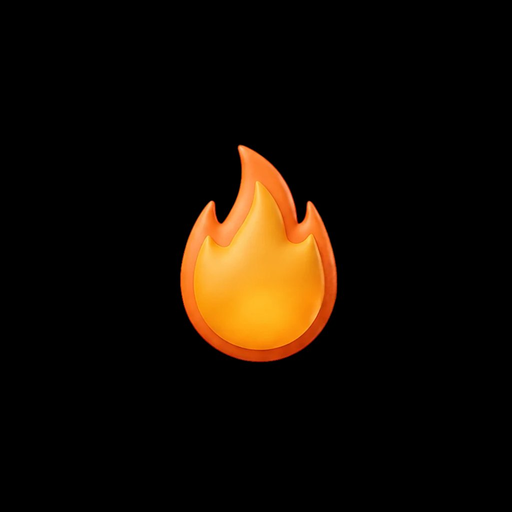
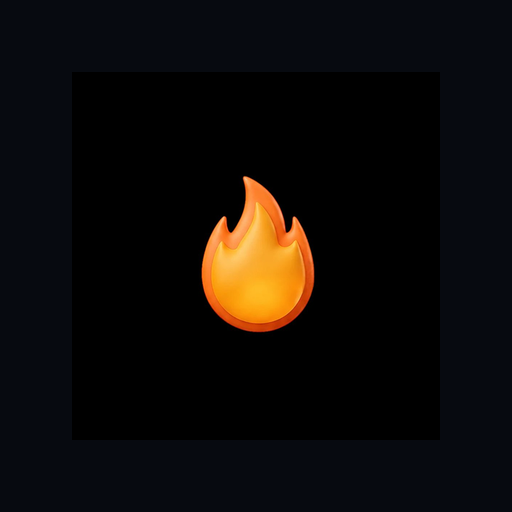
fix: icones PWA maskable com fundo #070A10, start_url /app e manifest v3.2 contra tela branca

Changed region(s): [[0.3438, 0.2812, 0.6875, 0.7188]]

diff --git a/frontend/index.html b/frontend/index.html
@@ -2,11 +2,11 @@
 <html lang="pt-BR">
   <head>
     <meta charset="UTF-8" />
-    <link rel="icon" type="image/png" href="/favicon.png?v=2.4" />
-    <link rel="apple-touch-icon" sizes="180x180" href="/apple-touch-icon.png?v=2.4" />
-    <link rel="manifest" href="/manifest.json?v=2.4" />
+    <link rel="icon" type="image/png" href="/favicon.png?v=3.2" />
+    <link rel="apple-touch-icon" sizes="180x180" href="/apple-touch-icon.png?v=3.2" />
+    <link rel="manifest" href="/manifest.json?v=3.2" />
     <meta name="viewport" content="width=device-width, initial-scale=1.0, viewport-fit=cover" />
-    <meta name="theme-color" content="#121212" />
+    <meta name="theme-color" content="#070A10" />
     <meta name="description" content="1Convite — Bíblia Sagrada ACF com narração em áudio, meditações diárias para ler e ouvir, Treino Templo para saúde física, Mentores Bíblicos e Vales-Presente VIP do Reino." />
     <meta name="keywords" content="1Convite, Bíblia em áudio, meditação cristã diária, devocional narrado, Treino Templo, saúde cristã, mentores bíblicos, vale-presente cristão" />
     <meta name="author" content="1Convite" />
